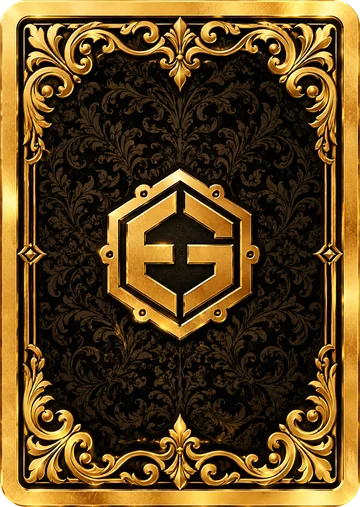
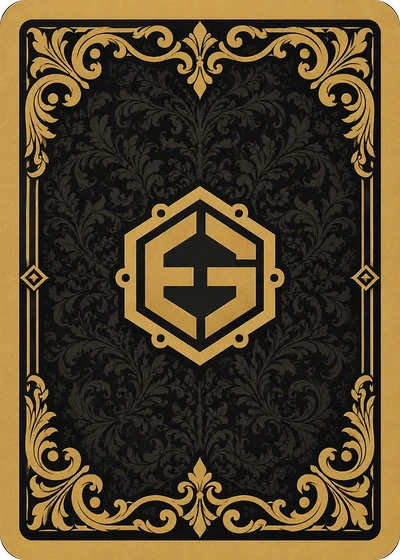
/oyna: Pişti'de yeni masa ve kart arkası, yerdeki kartlar yığın halinde
Masa görseli 9 parçalı çerçeveyle her ekrana oturuyor. Yerdeki kartlar
artık üst üste görünür (en fazla 5 kart, her biri kendi açısında);
önceden alttaki kartların görseli kayboluyordu.

Claude-Session: https://claude.ai/code/session_014ewFGurQpxPwb6SyJJ5X6r

diff --git a/oyna/oyun.html b/oyna/oyun.html
@@ -11545,6 +11545,14 @@ body.lo .psc.on,body.noanim .psc.on{animation:none}
 .pst-tx small{font:700 clamp(8px,2.1vh,11px) P;color:#9fc7b2}
 .pst-tx.me b{color:#ffd76a}
 .ps-turn span{all:unset}
+/* yerdeki kart yığını: en fazla 5 kart görünür, her biri kendi açısında */
+.ps-pl .pc.un,.ps-pl .pc.tp{translate:var(--x,0) var(--y,0);rotate:var(--r,0deg)}
+.ps-pl .pc.un{filter:brightness(.95)}
+.ps-pl .pc.tp{filter:none;box-shadow:0 .8vh 1.6vh rgba(0,0,0,.5)}
+.ps-pl .ps-n{z-index:9}
+/* masa: kullanıcının masa görseli, çerçeve köşeleri bozulmadan (9 parçalı) */
+.ps-bg{background:#0b4a1c;border-style:solid;border-color:transparent;border-width:7.6vh;border-image:url(img/pisti/masa.webp) 72 fill / 7.6vh stretch}
+.ps-bg::before,.ps-bg::after{display:none}
 
 </style>
 <script id="j-pisti">
@@ -11567,8 +11575,10 @@ const pst=()=>{P.pst=P.pst||{g:0,w:0,d:0,pis:0,best:0};return P.pst};
 const red=c=>c.s==1||c.s==2;
 const SUN=['maca','kupa','karo','sinek'];
 const cimg=c=>`img/pisti/${SUN[c.s]}_${RK[c.r]}.webp`;
-function face(c,cls){return`<span class="pc im ${red(c)?'rd':'bk'} ${cls||''}" data-r="${c.r}" style="background-image:url(${cimg(c)})"></span>`}
-const back=cls=>`<span class="pc bkc ${cls||''}"></span>`;
+function face(c,cls,st){return`<span class="pc im ${red(c)?'rd':'bk'} ${cls||''}" data-r="${c.r}" style="background-image:url(${cimg(c)});${st||''}"></span>`}
+const back=(cls,st)=>`<span class="pc bkc ${cls||''}" ${st?`style="${st}"`:''}></span>`;
+// yerdeki kartların sabit duruşu: her kart kendi açısıyla durur, yeniden çizilince oynamaz
+const lay=(c,k,tp)=>{const h=(c.s*13+c.r)*7+k*3,al=k%2?1:-1,rot=tp?al*(2+h%3):al*(7+h%6),x=al*(tp?.3:1.2+(h%3)*.5),y=((h*29)%5-2)*.45;return`--r:${rot}deg;--x:${x.toFixed(2)}vh;--y:${y.toFixed(2)}vh`};
 let PRE=0;function preload(){if(PRE)return;PRE=1;try{for(let s=0;s<4;s++)for(let r=1;r<=13;r++){const im=new Image();im.decoding='async';im.src=cimg({s,r})}const b=new Image();b.src='img/pisti/arka.webp'}catch(e){}}
 // ---------- deste ----------
 function deck(){const d=[];for(let s=0;s<4;s++)for(let r=1;r<=13;r++)d.push({s,r});for(let i=d.length-1;i>0;i--){const j=Math.random()*(i+1)|0;[d[i],d[j]]=[d[j],d[i]]}return d}
@@ -11654,7 +11664,8 @@ function render(){if(!PS||!$('#pst'))return;const top=PS.pile[PS.pile.length-1],
  $('#psBot').innerHTML=PS.hand[1].map(()=>back('sm')).join('');
  const dl=PS.d.length;$('#psDk').innerHTML=dl?`${dl>8?back('st s3'):''}${dl>3?back('st s2'):''}${back('st')}<em>${dl}</em><small>${T('Deste')}</small>`:`<span class="ps-emp"></span><small>${T('Deste bitti')}</small>`;
  const L=PS.pile,under=Math.min(L.length-1,4);
- $('#psPile').innerHTML=L.length?(L.slice(-1-under,-1).map((c,i)=>{const k=L.length-1-under+i,rot=((k*37)%17)-8;return k<PS.hid?back('un" style="--r:'+rot+'deg'):face(c,'un" style="--r:'+rot+'deg')}).join('')+face(top,'tp')+(L.length>1?`<em class="ps-n">${L.length}</em>`:'')):`<span class="ps-emp"><small>${T('Yer boş')}</small></span>`;
+ const vis=L.slice(-5),st=L.length-vis.length;
+ $('#psPile').innerHTML=L.length?vis.map((c,i)=>{const k=st+i,tp=k==L.length-1,sty=lay(c,k,tp)+';z-index:'+(i+1);return k<PS.hid?back('un',sty):face(c,tp?'tp':'un',sty)}).join('')+(L.length>1?`<em class="ps-n">${L.length}</em>`:''):`<span class="ps-emp"><small>${T('Yer boş')}</small></span>`;
  const sc=(p)=>{const me=!p,nm=me?(P.name||T('Sen')):PS.bot.name,av=me?avBox({av:P.av,photo:P.photo,frame:P.frame,lv:(()=>{try{return lvInfo(P.xp).l}catch(e){return 0}})()}):avBox({av:PS.bot.av,frame:'gumus'}),on=PS.turn==p&&!PS.over;
   return`${on?`<i class="psc-tag">${T(me?'SIRA SENDE':'SIRADA')}</i>`:''}<span class="psc-av">${av}</span><span class="psc-tx"><b class="psc-nm">${esc(nm)}</b><span class="psc-ch"><span><i class="pci"></i><b>${PS.cap[p].length}</b> ${T('kart')}</span><span class="${PS.np[p]?'hot':''}">${Ic('pstr')}<b>${PS.np[p]}</b> ${T('pişti')}</span></span></span><span class="psc-pt"><b>${livePts(p)}</b><small>${T('PUAN')}</small></span>`};
  $('#psScB').innerHTML=sc(1);$('#psScM').innerHTML=sc(0);$('#psScB').classList.toggle('on',PS.turn==1&&!PS.over);$('#psScM').classList.toggle('on',PS.turn==0&&!PS.over);
